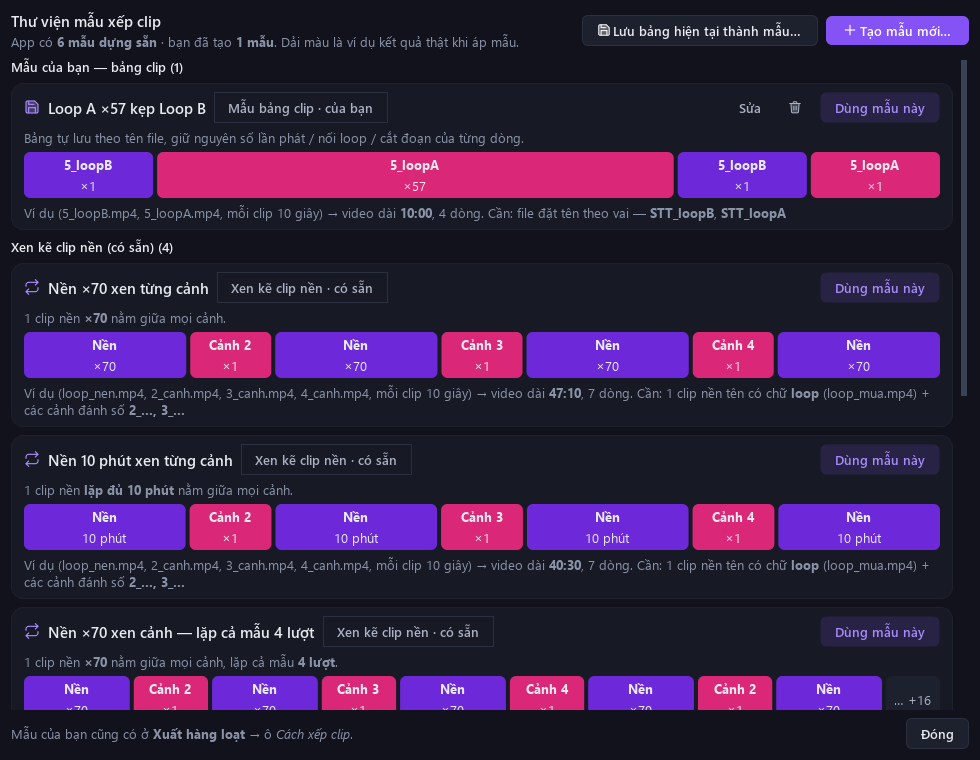
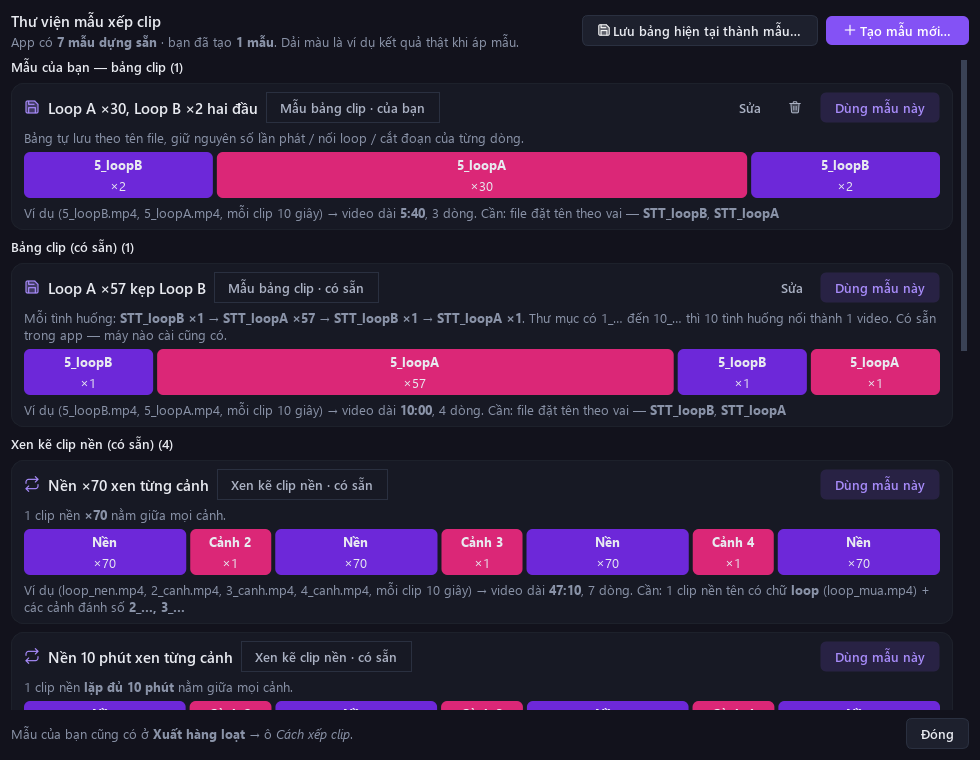
KT Loop Station 1.8.3: mẫu bảng "Loop A ×57 kẹp Loop B" có sẵn trong app
- Mẫu bảng clip dựng sẵn (TABLE_BUILTIN): STT_loopB ×1 → STT_loopA ×57 → STT_loopB ×1 → STT_loopA ×1.
  Đóng gói trong app nên máy nào cài cũng có; trước đây mẫu tự lưu chỉ nằm trong registry của máy đã lưu.
- Thư viện mẫu: mục "Bảng clip (có sẵn)", 7 mẫu dựng sẵn. Sửa mẫu có sẵn → tạo bản của bạn, mẫu gốc vẫn còn.
  Mẫu tự lưu trùng tên thay cho mẫu có sẵn. Hộp Mẫu bảng clip không cho xoá mẫu có sẵn.
- Dùng được ở Xuất hàng loạt (all_presets gồm cả mẫu bảng có sẵn).
- README, sổ tay, Hướng dẫn trong app, ảnh Thư viện mẫu cho 1.8.3; test mẫu có sẵn trên máy mới.

diff --git a/docs/So-tay-KT-Loop-Station.html b/docs/So-tay-KT-Loop-Station.html
@@ -137,7 +137,7 @@ footer { margin-top: 56px; padding-top: 18px; border-top: 1px solid var(--line);
 <div class="wrap">
 <nav class="toc" aria-label="Mục lục">
   <div class="brand">KT Loop Station</div>
-  <div class="ver">Sổ tay nhân viên · bản 1.8.2</div>
+  <div class="ver">Sổ tay nhân viên · bản 1.8.3</div>
   <ol>
     <li><a href="#cai-dat"><span>1</span><span>Cài đặt &amp; cập nhật</span></a></li>
     <li><a href="#lam-quen"><span>2</span><span>Làm quen màn hình</span></a></li>
@@ -163,7 +163,7 @@ footer { margin-top: 56px; padding-top: 18px; border-top: 1px solid var(--line);
   <h1>KT Loop Station — hướng dẫn sử dụng</h1>
   <p class="lede">App ghép và loop video, nhạc thành file dài hàng giờ cho YouTube. Đọc mục 1–3 là làm được video đầu tiên; các mục sau tra khi cần.</p>
   <div class="facts">
-    <span><b>Phiên bản</b> 1.8.2</span>
+    <span><b>Phiên bản</b> 1.8.3</span>
     <span><b>Máy</b> Windows 10 / 11 64-bit</span>
     <span><b>Tác giả</b> Khánh Trà</span>
     <span><b>Trong app</b> phím <kbd>F1</kbd> mở Hướng dẫn</span>
@@ -315,7 +315,8 @@ footer { margin-top: 56px; padding-top: 18px; border-top: 1px solid var(--line);
   <p>Bấm <b>Thư viện mẫu…</b> (trên bảng clip, cạnh Xếp lần lượt). Mỗi mẫu có <b>dải màu ví dụ kết quả</b> (app áp thật mẫu
   lên bộ tên file ví dụ, mỗi clip 10 giây) và tổng thời lượng. Bấm <b>Dùng mẫu này</b> để áp vào bảng.</p>
   <div class="tbl"><table>
-    <tr><th>6 mẫu có sẵn</th><th>Kết quả</th></tr>
+    <tr><th>7 mẫu có sẵn</th><th>Kết quả</th></tr>
+    <tr><td>Loop A ×57 kẹp Loop B (bảng clip)</td><td>STT_loopB → STT_loopA ×57 → STT_loopB → STT_loopA; 1_… đến 10_… nối thành 1 video</td></tr>
     <tr><td>Nền ×70 xen từng cảnh</td><td>Nền ×70 → Cảnh 2 → Nền ×70 → Cảnh 3 → … → Nền ×70</td></tr>
     <tr><td>Nền 10 phút xen từng cảnh</td><td>như trên, mỗi lần nền loop đủ 10 phút</td></tr>
     <tr><td>Nền ×70 xen cảnh — lặp cả mẫu 4 lượt</td><td>chuỗi nền / cảnh trên lặp 4 lượt</td></tr>
@@ -323,6 +324,8 @@ footer { margin-top: 56px; padding-top: 18px; border-top: 1px solid var(--line);
     <tr><td>Từng loop ×60, clip nội dung ở đầu</td><td>Content → Loop1 ×60 → Loop2 ×60 → …</td></tr>
     <tr><td>Từng loop ×60, clip nội dung ở cuối</td><td>Loop1 ×60 → Loop2 ×60 → … → Content</td></tr>
   </table></div>
+  <p>Mẫu có sẵn nằm trong app nên <b>máy nào cài cũng có</b>. Mẫu bạn tự lưu chỉ nằm trên máy đã lưu. Muốn đổi mẫu có sẵn:
+  bấm <b>Sửa</b>, app tạo <i>bản của bạn</i>, mẫu gốc vẫn còn.</p>
   <h3>Mẫu bảng clip của bạn (tên STT_loopA / STT_loopB)</h3>
   <p>Mẫu nhớ cả bảng (thứ tự, số lần phát, nối loop, cắt đoạn) theo <b>tên file bỏ số thứ tự ở đầu</b>:
   <code>5_loopB.mp4</code>, <code>6_loopB.mp4</code> cùng là <b>STT_loopB</b>. Nhờ vậy bảng
@@ -667,7 +670,7 @@ footer { margin-top: 56px; padding-top: 18px; border-top: 1px solid var(--line);
   </ol>
 </section>
 
-<footer>KT Loop Station 1.8.2 · By Khánh Trà · Trong app bấm <kbd>F1</kbd> để xem hướng dẫn có ảnh và nút đi thẳng tới đúng chỗ.</footer>
+<footer>KT Loop Station 1.8.3 · By Khánh Trà · Trong app bấm <kbd>F1</kbd> để xem hướng dẫn có ảnh và nút đi thẳng tới đúng chỗ.</footer>
 </main>
 </div>
 

diff --git a/loopstation/ui/preset_library.py b/loopstation/ui/preset_library.py
@@ -21,7 +21,8 @@ from ..core.project import ClipItem
 from . import icons, theme
 from . import widgets as w
 from .interleave_dialog import (
-    BUILTIN, SEQUENCE_PRESETS, USER_PREFIX, all_presets, arrange_from_preset, save_table_presets, table_presets,
+    BUILTIN, SEQUENCE_PRESETS, TABLE_BUILTIN, USER_PREFIX, all_presets, arrange_from_preset, save_table_presets,
+    table_presets,
 )
 
 EXAMPLE_SEC = 10.0  # mỗi clip ví dụ dài 10 giây
@@ -44,6 +45,9 @@ def describe(p: dict) -> str:
     if k == "sequence":
         pos = {"start": "ở đầu", "end": "ở cuối", "both": "ở đầu và cuối"}.get(p.get("content", "start"), "ở đầu")
         return f"Phát lần lượt từng clip loop, mỗi cái <b>×{p.get('base', '60')}</b>; clip nội dung {pos}."
+    if k == "table" and not p.get("user"):
+        return ("Mỗi tình huống: <b>" + tp.summary(p.get("rows") or []) + "</b>. Thư mục có 1_… đến 10_… thì "
+                "10 tình huống nối thành 1 video. Có sẵn trong app — máy nào cài cũng có.")
     if k == "table":
         return "Bảng tự lưu theo tên file, giữ nguyên số lần phát / nối loop / cắt đoạn của từng dòng."
     base = str(p.get("base", "70"))
@@ -272,14 +276,16 @@ class PresetLibraryDialog(QDialog):
                 wd.deleteLater()
         everything = all_presets(self.settings)
         users_il = [p for p in everything if p.get("user") and kind_of(p) == "interleave"]
-        users_tb = [p for p in everything if kind_of(p) == "table"]
-        n_builtin = len(BUILTIN) + len(SEQUENCE_PRESETS)
+        users_tb = [p for p in everything if p.get("user") and kind_of(p) == "table"]
+        builtin_tb = [p for p in everything if not p.get("user") and kind_of(p) == "table"]
+        n_builtin = len(TABLE_BUILTIN) + len(BUILTIN) + len(SEQUENCE_PRESETS)
         n_user = len(users_il) + len(users_tb)
         self.count.setText(f"App có <b>{n_builtin} mẫu dựng sẵn</b> · bạn đã tạo <b>{n_user} mẫu</b>. "
                            "Dải màu là ví dụ kết quả thật khi áp mẫu.")
         sections = [
             ("Mẫu của bạn — bảng clip", users_tb, True, True),
             ("Mẫu của bạn — xen kẽ clip nền", users_il, False, True),
+            ("Bảng clip (có sẵn)", builtin_tb, False, False),
             ("Xen kẽ clip nền (có sẵn)", [dict(p) for p in BUILTIN], False, False),
             ("Xếp lần lượt từng loop (có sẵn)", [dict(p) for p in SEQUENCE_PRESETS], False, False),
         ]
@@ -293,8 +299,8 @@ class PresetLibraryDialog(QDialog):
                 self.body_lay.addWidget(w.muted("Chưa có — bấm <b>Tạo mẫu mới…</b> hoặc <b>Lưu bảng hiện tại thành "
                                                 "mẫu…</b> ở trên."))
             for p in items:
-                self.body_lay.addWidget(PresetCard(p, self._use, self._edit if editable else None,
-                                                   self._delete if deletable else None))
+                edit = self._edit if editable else (self._edit_copy if kind_of(p) == "table" else None)
+                self.body_lay.addWidget(PresetCard(p, self._use, edit, self._delete if deletable else None))
         self.body_lay.addStretch(1)
 
     def _use(self, p: dict) -> None:
@@ -310,6 +316,10 @@ class PresetLibraryDialog(QDialog):
         dlg = PresetEditor(self.settings, p, self)
         if dlg.exec():
             self._fill()
+
+    def _edit_copy(self, p: dict) -> None:
+        """Mẫu có sẵn không sửa trực tiếp: sửa thành bản của bạn (mẫu có sẵn vẫn còn)."""
+        self._edit({"name": f"{p['name']} (bản của bạn)", "rows": [dict(r) for r in p.get("rows") or []]})
 
     def _delete(self, p: dict) -> None:
         if QMessageBox.question(self, "Xoá mẫu", f"Xoá mẫu “{p['name']}”?") != QMessageBox.StandardButton.Yes:

diff --git a/loopstation/ui/table_preset_dialog.py b/loopstation/ui/table_preset_dialog.py
@@ -14,7 +14,7 @@ from ..core import table_preset as tp
 from ..core.project import ClipItem
 from . import icons, theme
 from . import widgets as w
-from .interleave_dialog import save_table_presets, table_presets
+from .interleave_dialog import all_table_presets, save_table_presets, table_presets
 
 C_NO, C_ROLE, C_PLAYS, C_LOOP, C_NEXT, C_TRIM, C_FILE = range(7)
 LAST_KEY = "table/last"  # mẫu dùng lần trước: mở hộp thoại là chọn sẵn
@@ -118,7 +118,7 @@ class TablePresetDialog(QDialog):
 
     # ---------- dữ liệu ----------
     def _presets(self) -> list[dict]:
-        return table_presets(self.settings)
+        return all_table_presets(self.settings)
 
     def _load(self, select: str = "") -> None:
         self.preset.blockSignals(True)
@@ -135,7 +135,8 @@ class TablePresetDialog(QDialog):
 
     def _show(self, *_) -> None:
         p = self.preset.currentData()
-        self.del_btn.setEnabled(p is not None)
+        self.del_btn.setEnabled(bool(p and p.get("user")))  # mẫu có sẵn không xoá được
+        self.del_btn.setToolTip("Xoá mẫu đang chọn" if p is None or p.get("user") else "Mẫu có sẵn — không xoá được")
         self.tree.setVisible(p is not None)
         self.empty.setVisible(p is None)
         self.tree.clear()
@@ -201,7 +202,7 @@ class TablePresetDialog(QDialog):
         name = name.strip()
         if not ok or not name:
             return
-        presets = self._presets()
+        presets = table_presets(self.settings)
         if any(p["name"] == name for p in presets):
             if QMessageBox.question(self, "Lưu mẫu", f"Đã có mẫu “{name}”. Ghi đè?") != QMessageBox.StandardButton.Yes:
                 return
@@ -216,7 +217,7 @@ class TablePresetDialog(QDialog):
         if p is None or QMessageBox.question(self, "Xoá mẫu", f"Xoá mẫu “{p['name']}”?") \
                 != QMessageBox.StandardButton.Yes:
             return
-        save_table_presets(self.settings, [x for x in self._presets() if x["name"] != p["name"]])
+        save_table_presets(self.settings, [x for x in table_presets(self.settings) if x["name"] != p["name"]])
         self._load()
 
     def _apply(self) -> None:

diff --git a/loopstation/ui/help_page.py b/loopstation/ui/help_page.py
@@ -290,12 +290,15 @@ lặp 60 lần? Bấm <b>Xếp lần lượt…</b> (cạnh nút Xen kẽ clip n
 <h2>Thư viện mẫu: xem mọi mẫu, tự tạo mẫu mới</h2>
 <p>Bấm <b>Thư viện mẫu…</b> (trên bảng clip, cạnh Xếp lần lượt). Mỗi mẫu có <b>dải màu ví dụ kết quả</b> — app áp thật
 mẫu lên bộ tên file ví dụ, mỗi clip 10 giây — kèm tổng thời lượng. Bấm <b>Dùng mẫu này</b> để áp vào bảng.</p>""" + examples([
+    ("Loop A ×57 kẹp Loop B (bảng clip)", "STT_loopB → STT_loopA ×57 → STT_loopB → STT_loopA; 1_… đến 10_… nối thành 1 video"),
     ("Nền ×70 xen từng cảnh", "Nền ×70 → Cảnh 2 → Nền ×70 → Cảnh 3 → … → Nền ×70"),
     ("Nền 10 phút xen từng cảnh", "như trên, mỗi lần nền loop đủ 10 phút"),
     ("Nền ×70 xen cảnh — lặp cả mẫu 4 lượt", "chuỗi nền / cảnh trên lặp 4 lượt"),
     ("Nền 5 phút, cảnh ngẫu nhiên — lặp 6 lượt", "6 lượt, mỗi lượt cảnh xáo thứ tự khác"),
     ("Từng loop ×60, clip nội dung ở đầu", "Content → Loop1 ×60 → Loop2 ×60 → …"),
-    ("Từng loop ×60, clip nội dung ở cuối", "Loop1 ×60 → Loop2 ×60 → … → Content")], ("6 mẫu có sẵn", "Kết quả")) + """
+    ("Từng loop ×60, clip nội dung ở cuối", "Loop1 ×60 → Loop2 ×60 → … → Content")], ("7 mẫu có sẵn", "Kết quả")) + box(
+    "tip", "Mẫu có sẵn nằm trong app nên <b>máy nào cài cũng có</b>. Mẫu bạn tự lưu chỉ nằm trên máy đã lưu. Muốn đổi "
+            "mẫu có sẵn: bấm <b>Sửa</b> → app tạo <i>bản của bạn</i>, mẫu gốc vẫn còn.") + """
 <h2>Mẫu bảng clip của bạn: dùng lại cho video khác</h2>
 <p>Bảng tự xếp (ví dụ <b>5_loopB ×1 → 5_loopA ×57 → 5_loopB ×1 → 5_loopA ×1</b>) dùng lại cho video 6, 7…: trong
 Thư viện mẫu bấm <b>Lưu bảng hiện tại thành mẫu…</b>, hoặc <b>Tạo mẫu mới…</b> để tự gõ từng dòng (vai + số lần phát +

diff --git a/loopstation/ui/interleave_dialog.py b/loopstation/ui/interleave_dialog.py
@@ -48,6 +48,18 @@ SEQUENCE_PRESETS = [
 ]
 
 
+
+def _table_builtin(name: str, plays: list[tuple[str, int]]) -> dict:
+    from ..core import table_preset as tp
+    return {"name": name, "kind": "table", "rows": tp.from_clips([ClipItem(f"1_{r}.mp4", count=n) for r, n in plays])}
+
+
+# mẫu bảng clip dựng sẵn: đóng gói trong app → máy nào cài cũng có (mẫu tự lưu chỉ nằm trên máy đã lưu)
+TABLE_BUILTIN = [
+    _table_builtin("Loop A ×57 kẹp Loop B", [("loopB", 1), ("loopA", 57), ("loopB", 1), ("loopA", 1)]),
+]
+
+
 class InterleaveDialog(QDialog):
     """durations: path (normcase) → độ dài một lần phát (đã trừ phần cắt) để ước tính tổng thời lượng."""
 
@@ -543,7 +555,7 @@ def all_presets(settings: QSettings | None) -> list[dict]:
             users = [dict(p, user=True) for p in data if isinstance(p, dict) and p.get("name")]
         except (TypeError, ValueError):
             users = []
-    return [dict(p) for p in BUILTIN] + [dict(p) for p in SEQUENCE_PRESETS] + users + table_presets(settings)
+    return [dict(p) for p in BUILTIN] + [dict(p) for p in SEQUENCE_PRESETS] + users + all_table_presets(settings)
 
 
 def table_presets(settings: QSettings | None) -> list[dict]:
@@ -556,6 +568,13 @@ def table_presets(settings: QSettings | None) -> list[dict]:
         return []
     return [dict(p, kind="table", user=True) for p in data
             if isinstance(p, dict) and p.get("name") and isinstance(p.get("rows"), list)]
+
+
+def all_table_presets(settings: QSettings | None) -> list[dict]:
+    """Mẫu bảng clip có sẵn + mẫu người dùng đã lưu (mẫu tự lưu trùng tên thay cho mẫu có sẵn)."""
+    users = table_presets(settings)
+    mine = {p["name"] for p in users}
+    return [dict(p) for p in TABLE_BUILTIN if p["name"] not in mine] + users
 
 
 def save_table_presets(settings: QSettings, presets: list[dict]) -> None:

diff --git a/tests/test_table_preset.py b/tests/test_table_preset.py
@@ -72,3 +72,21 @@ def test_library_examples_for_every_preset():
     assert [b[0] for b in blocks[:3]] == ["Nền", "Cảnh 2", "Nền"] and blocks[0][1] == "×70"
     blocks, total, _ = example({"kind": "table", "rows": tp.from_clips(_table("5"))})
     assert [b[1] for b in blocks] == ["×1", "×57", "×1", "×1"] and total == 600
+
+
+def test_builtin_table_preset_ships_with_app():
+    """Mẫu "Loop A ×57 kẹp Loop B" nằm trong app: máy mới (chưa lưu gì) vẫn có, áp được cho 1_… đến 10_…."""
+    from PySide6.QtCore import QSettings
+    from loopstation.ui.interleave_dialog import TABLE_BUILTIN, all_presets, all_table_presets, save_table_presets
+    st = QSettings("KTLoopStation-Test", "builtin-table")
+    st.clear()
+    p = next(x for x in all_presets(st) if x["name"] == "Loop A ×57 kẹp Loop B")
+    assert p["kind"] == "table" and not p.get("user")
+    assert tp.summary(p["rows"]) == "STT_loopB ×1 → STT_loopA ×57 → STT_loopB ×1 → STT_loopA ×1"
+    clips, missing = tp.build(p["rows"], [f"D:/f/{n}_loop{r}.mp4" for n in range(1, 11) for r in "AB"])
+    assert not missing and len(clips) == 40 and clips[1].path.endswith("1_loopA.mp4") and clips[1].count == 57
+    save_table_presets(st, [{"name": "Loop A ×57 kẹp Loop B", "rows": p["rows"][:2]}])  # bản của bạn trùng tên: thay mẫu có sẵn
+    mine = [x for x in all_table_presets(st) if x["name"] == "Loop A ×57 kẹp Loop B"]
+    assert len(mine) == 1 and mine[0].get("user") and len(mine[0]["rows"]) == 2
+    assert len(TABLE_BUILTIN[0]["rows"]) == 4  # mẫu gốc không đổi
+    st.clear()

diff --git a/tests/make_screenshots.py b/tests/make_screenshots.py
@@ -140,12 +140,13 @@ wait(0.8)
 sd.grab().save(str(OUT / "06-xep-lan-luot.png"))
 sd.reject()
 
-# Thư viện mẫu: 6 mẫu có sẵn + một mẫu bảng clip tự lưu (5_loopB ×1 → 5_loopA ×57 → 5_loopB ×1 → 5_loopA ×1)
+# Thư viện mẫu: 7 mẫu có sẵn (có mẫu bảng Loop A ×57 kẹp Loop B) + một mẫu bảng tự lưu
 from loopstation.core import table_preset as tp  # noqa: E402
 from loopstation.ui.interleave_dialog import save_table_presets  # noqa: E402
 from loopstation.ui.preset_library import PresetLibraryDialog  # noqa: E402
 demo = [ClipItem("5_loopB.mp4"), ClipItem("5_loopA.mp4", count=57), ClipItem("5_loopB.mp4"), ClipItem("5_loopA.mp4")]
-save_table_presets(st, [{"name": "Loop A ×57 kẹp Loop B", "rows": tp.from_clips(demo)}])
+mine = [ClipItem("5_loopB.mp4", count=2), ClipItem("5_loopA.mp4", count=30, loop_xfade=1.0), ClipItem("5_loopB.mp4", count=2)]
+save_table_presets(st, [{"name": "Loop A ×30, Loop B ×2 hai đầu", "rows": tp.from_clips(mine)}])
 lib = PresetLibraryDialog(demo, st, win)
 lib.resize(980, 760)
 lib.show()

diff --git a/loopstation/ui/help_hub.py b/loopstation/ui/help_hub.py
@@ -35,7 +35,8 @@ FIRST_STEPS = (
 # "Có gì mới" của bản đang chạy — hiện ở đầu trang Tổng quan (sửa cùng lúc với APP_VERSION khi ra bản mới)
 WHATS_NEW = (
     ("queue", "Thư viện mẫu + mẫu bảng clip",
-     "Xem 6 mẫu có sẵn kèm ví dụ kết quả, tự tạo mẫu mới. Lưu cả bảng (STT_loopB ×1 → STT_loopA ×57 → …) "
+     "Xem 7 mẫu có sẵn kèm ví dụ kết quả (có mẫu bảng Loop A ×57 kẹp Loop B — máy nào cài cũng có), tự tạo mẫu "
+     "mới. Lưu cả bảng (STT_loopB ×1 → STT_loopA ×57 → …) "
      "thành mẫu theo tên file, áp cho video khác (6_loopA, 6_loopB…), "
      "nối 10 tình huống (1_… → 10_…) thành một video, hoặc dùng ở Xuất hàng loạt. Nút Thư viện mẫu… ở trang Video."),
     ("info", "Nhắc Intro / Outro mẫu",

diff --git a/loopstation/ui/theme.py b/loopstation/ui/theme.py
@@ -17,7 +17,7 @@ from ..core import ffmpeg_tools as ft
 
 APP_NAME = "KT Loop Station"
 AUTHOR = "By Khánh Trà"
-APP_VERSION = "1.8.2"
+APP_VERSION = "1.8.3"
 # nơi lưu cài đặt (registry); KTLS_SETTINGS_ORG dùng cho test để không đụng cài đặt thật
 SETTINGS_ORG = os.environ.get("KTLS_SETTINGS_ORG", "KTLoopStation")
 

diff --git a/README.md b/README.md
@@ -6,7 +6,7 @@
 
 **Ghép và loop clip + nhạc thành video YouTube dài hàng giờ — xem trước ngay trong app, xuất nhanh bằng card đồ hoạ.**
 
-<sub>By Khánh Trà · Ứng dụng Windows · Giao diện tiếng Việt · Bản mới nhất: <b>1.8.2</b></sub>
+<sub>By Khánh Trà · Ứng dụng Windows · Giao diện tiếng Việt · Bản mới nhất: <b>1.8.3</b></sub>
 
 <br>
 
@@ -35,12 +35,14 @@
 
 ## Có gì mới ở 1.8
 
+> **1.8.3** · Mẫu bảng <b>Loop A ×57 kẹp Loop B</b> (<code>STT_loopB ×1 → STT_loopA ×57 → STT_loopB ×1 → STT_loopA ×1</code>) giờ <b>có sẵn trong app</b>: cài trên máy nào cũng có, không cần lưu lại. Thư viện mẫu có 7 mẫu dựng sẵn. Muốn đổi mẫu có sẵn thì bấm <b>Sửa</b> — app tạo bản của bạn, mẫu gốc vẫn còn. Mẫu tự lưu vẫn chỉ nằm trên máy đã lưu.
+
 <table>
 <tr>
 <td width="50%" valign="top">
 <img src="docs/icons/queue.png" width="36"><br>
 <b>1.8.2 · Thư viện mẫu xếp clip</b><br>
-Nút <b>Thư viện mẫu…</b> ở trang Video liệt kê <b>6 mẫu có sẵn</b> và các mẫu bạn tạo, mỗi mẫu có <b>dải màu ví dụ kết quả</b> (tính thật trên bộ file ví dụ) và tổng thời lượng. <b>Tạo mẫu mới…</b>: tự gõ từng dòng — vai (loopA), số lần phát (57 · 10p · 50-80), nối loop.
+Nút <b>Thư viện mẫu…</b> ở trang Video liệt kê các mẫu có sẵn và các mẫu bạn tạo, mỗi mẫu có <b>dải màu ví dụ kết quả</b> (tính thật trên bộ file ví dụ) và tổng thời lượng. <b>Tạo mẫu mới…</b>: tự gõ từng dòng — vai (loopA), số lần phát (57 · 10p · 50-80), nối loop.
 </td>
 <td width="50%" valign="top">
 <img src="docs/icons/repeat.png" width="36"><br>
